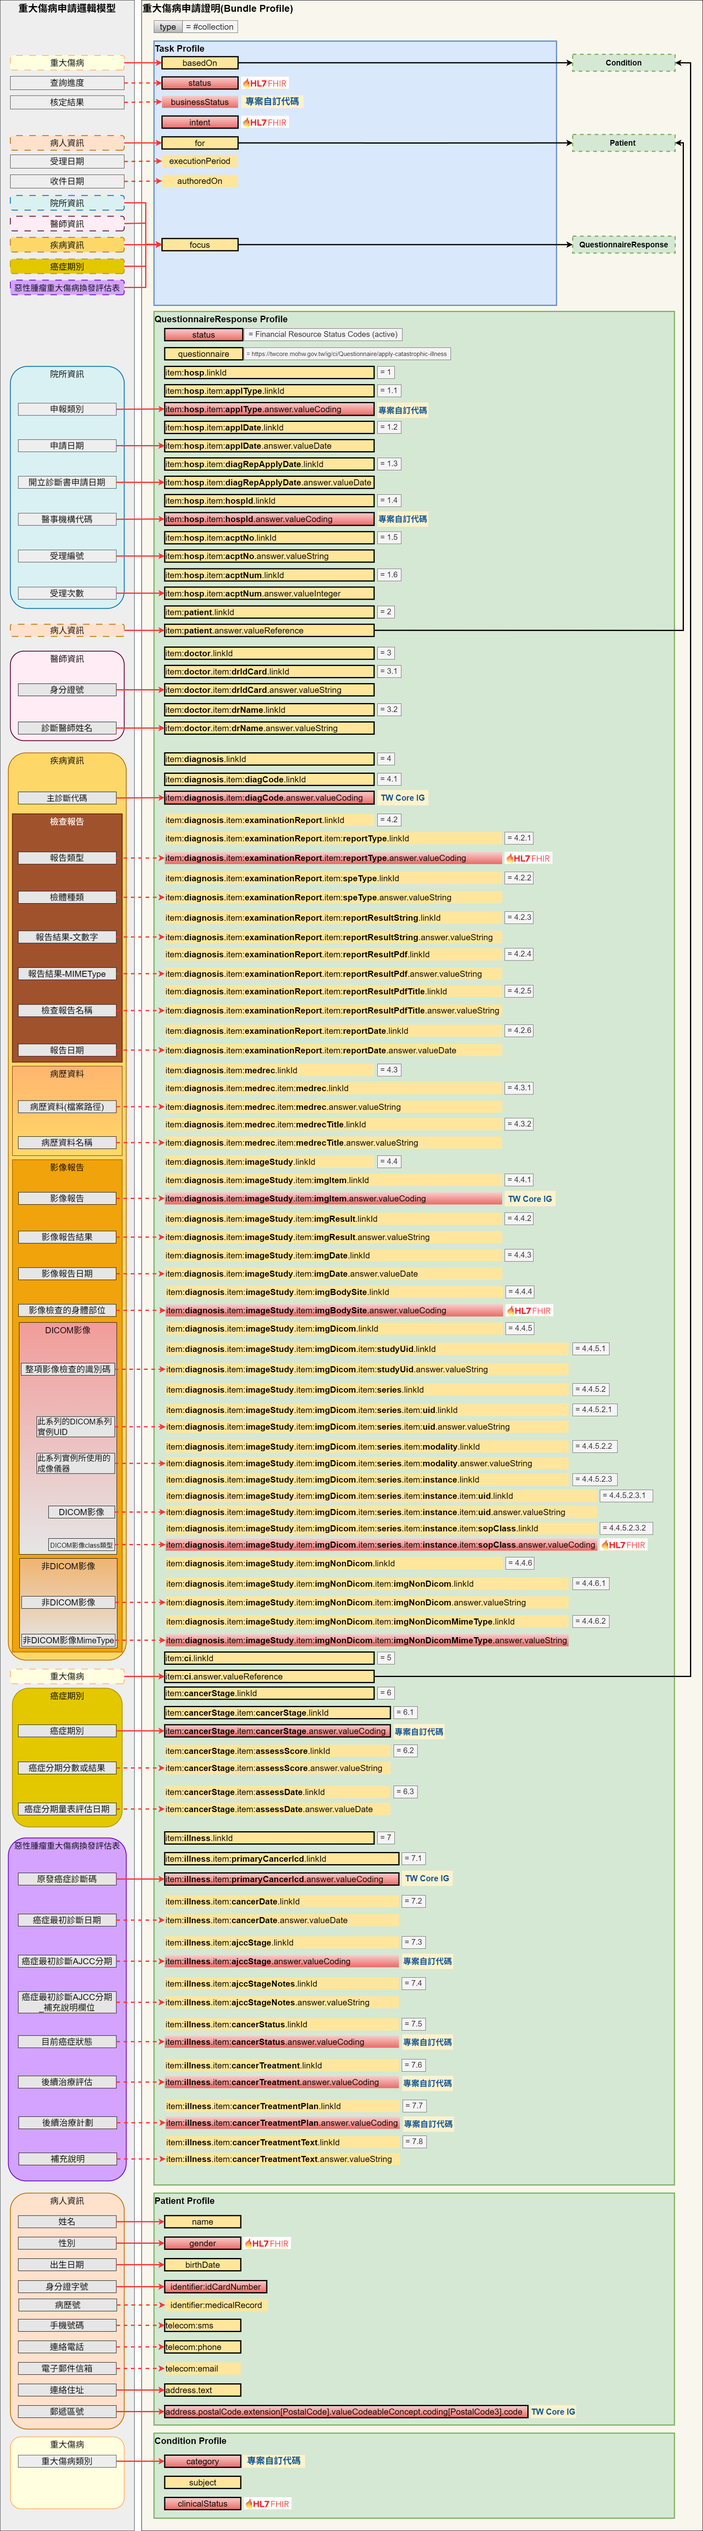
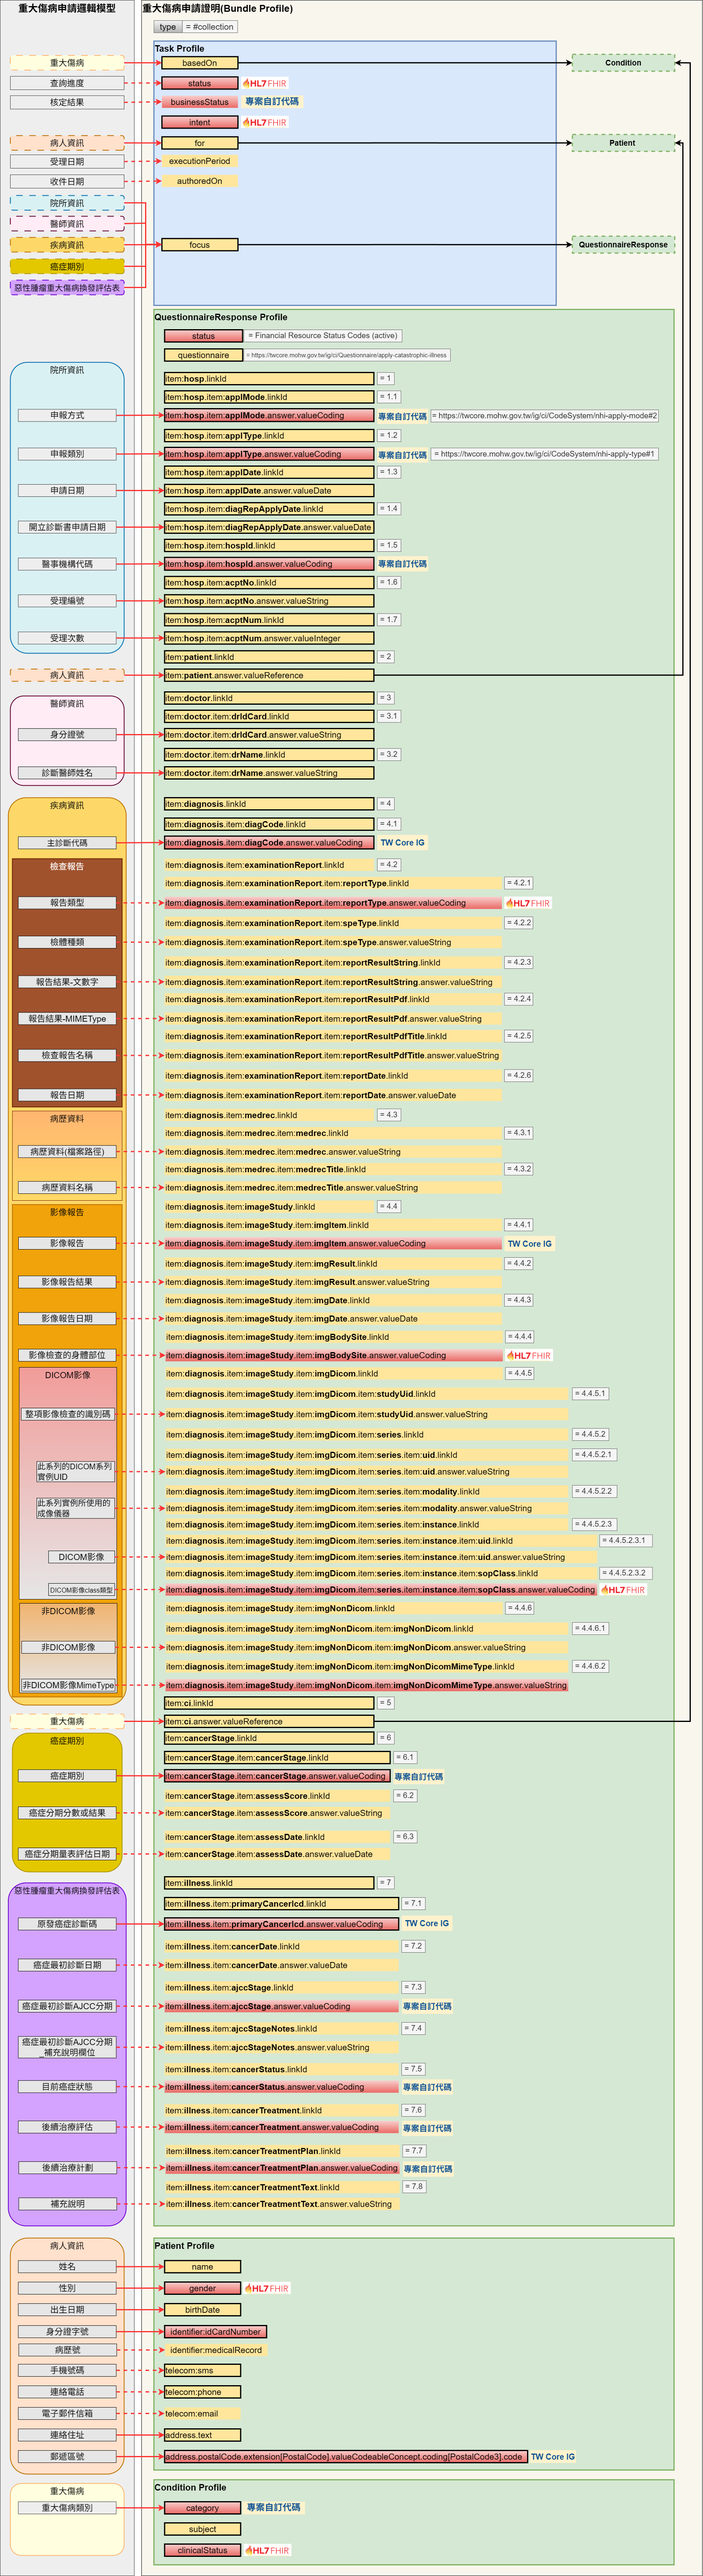
0521

diff --git a/input/pagecontent/validate.md b/input/pagecontent/validate.md
@@ -1,0 +1,87 @@
+<style>
+body{font-family: arial,"Microsoft JhengHei","微軟正黑體",sans-serif !important;}
+</style>
+
+本頁將說明如何驗證實作檔是否符合TWCI IG規範。
+
+### IG驗證公開資源參考
+- HL7總會線上驗證工具：[https://validator.fhir.org/](https://validator.fhir.org/){:target="_blank"} (需等本IG於衛生福利部註冊過後才能使用)
+
+
+### 使用國際HL7提供的公開免費驗證器validator_cli.jar檔，以命令提示字元測試驗證。
+
+若IG已註冊可直接跳至Step 3，但目前因尚未註冊，須從Step 1開始。
+
+#### Step 1：手動下載IG Package
+<div style="padding-left: 10px;">
+<p>於「<a href="downloads.html">結構定義與範例檔案下載</a>」頁下載<a href="package.tgz">整個 TWCI IG 的 Package</a>。</p>
+<img src="validate/1-1.png" alt="Downloading the Pacakge" style="display: block;margin-left: auto;margin-right: auto;width: 80%;margin-bottom: 15px;" class="figure-img img-responsive img-rounded center-block"/>
+<div class="bg-warning">
+<p><b>下載下來的package.tgz檔案，請先解壓縮成package資料夾檔案！<br/>
+  解壓縮第一次還是package.tar壓縮檔案，解壓縮第二次才是package資料夾。</b></p>
+
+<img src="validate/1-2.gif" alt="Unzip the Pacakge" style="display: block;margin-left: auto;margin-right: auto;width: 70%;" class="figure-img img-responsive img-rounded center-block"/>
+<br/>
+</div>
+<div style="clear:both;"></div>
+</div>
+
+#### Step 2：放置 IG Package檔案
+<div style="padding-left: 10px;"> 
+<p>Package Cache檔案路徑如下：</p>
+<li>Windows：c:\users\&lt;username&gt;\.fhir\packages</li>
+<li>Unix/Linux：/~/.fhir/packages</li>
+<p>在packages路徑下創建一個資料夾並命名為「tw.gov.mohw.nhi.ci#1.0.1」，將package.tgz解壓縮後的package資料夾放置於「tw.gov.mohw.nhi.ci#1.0.1」中。</p>
+<div class="bg-warning"><p><b>若是第一次執行，須自行新增「.fhir」資料夾及其項下的「packages」資料夾。</b></p></div>
+<img src="validate/2.png" alt="Put the Pacakge" style="display: block;margin-left: auto;margin-right: auto;width: 60%;" class="figure-img img-responsive img-rounded center-block"/>
+<div style="clear:both;"></div>
+</div>
+
+
+#### Step 3：下載validator_cli.jar檔
+<div style="padding-left: 10px;"> 
+<p>進入HL7驗證說明官網(<a href="https://confluence.hl7.org/display/FHIR/Using+the+FHIR+Validator#UsingtheFHIRValidator-Downloadingthevalidator">Confluence Pages of Health Level 7 (HL7) International</a>)後尋找「Downloading the validator」項目，下載「<a href="https://github.com/hapifhir/org.hl7.fhir.core/releases/latest/download/validator_cli.jar">validator_cli.jar</a>」檔。</p>
+<img src="validate/3.png" alt="download validator_cli.jar" style="display: block;margin-left: auto;margin-right: auto;width: 80%;" class="figure-img img-responsive img-rounded center-block"/>
+<div style="clear:both;"></div>
+</div>
+
+#### Step 4：使用您的實例JSON檔或下載範例JSON檔
+<div style="padding-left: 10px;"> 
+<p>如果您手邊已經有一個依據TWCI IG實作的JSON檔，您可以使用您的實例檔案，如果您尚未有這樣的檔案，可以下載如下圖所示的TWCI IG的「<a href="Bundle-bun-min.json">Bundle 重大傷病申請證明</a>」範例。如下圖所示，請於TWCI IG網站上，找到<a href="examples.html">範例</a>頁面中「Bundle」的「<a href="Bundle-bun-min.html">重大傷病申請證明</a>」，點選「JSON」頁籤中的「<a href="Bundle-bun-min.json">Download</a>」，若沒有自動下載，請在「Bundle-bun-min.json」頁中按右鍵，選擇「另存新檔...」。</p>
+<div class="bg-warning"><p style="color: firebrick;"><b>最終完整檔為Bundle，但實作中通常會先驗證Bundle.entry的各Resource，例如：Patient、Practitioner及Organization等，各Profile的範例亦可於<a href="examples.html">範例</a>頁面中下載。</b></p></div>
+<img src="validate/4-1.png" alt="download example json" style="display: block;margin-left: auto;margin-right: auto;width: 80%;" class="figure-img img-responsive img-rounded center-block"/>
+<div style="clear:both;"></div>
+<img src="validate/4-2.png" alt="download example json" style="display: block;margin-left: auto;margin-right: auto;width: 80%;" class="figure-img img-responsive img-rounded center-block"/>
+<div style="clear:both;"></div>
+<img src="validate/4-3.png" alt="download example json" style="display: block;margin-left: auto;margin-right: auto;width: 70%;" class="figure-img img-responsive img-rounded center-block"/>
+<div style="clear:both;"></div>
+</div>
+
+#### Step 5：放置validator_cli.jar檔與範例檔
+<div style="padding-left: 10px;"> 
+<p>請將Step 4下載之範例JSON檔(或您自己的實例JSON檔)及Step 3 validator_cli.jar檔，放置於「C:\」目錄中。</p>
+<div class="bg-warning"><p style="color: firebrick;"><b>這邊只是為了方便驗證時簡化語法及避免太複雜的說明，而將上述兩個檔案放在相同目錄，使用者/實作者可視情況放在不同的目錄，但後續驗證語法也要自行做相對應的調整。</b></p></div>
+<img src="validate/5.png" alt="put the files" style="display: block;margin-left: auto;margin-right: auto;width: 70%;" class="figure-img img-responsive img-rounded center-block"/>
+<div style="clear:both;"></div>
+</div>
+
+#### Step 6：驗證檔案是否符合Profiles格式
+<div style="padding-left: 10px;"> 
+<p>請開啟「命令提示字元」，將檔案路徑指向至「C:\」目錄。</p>
+<li>方式①：在C:\目錄的檔案路徑中直接輸入「cmd」並按Enter鍵。</li>
+<li>方式②：打開命令提示字元，輸入「cd C:/」將檔案路徑指向C:\目錄</li>
+<img src="validate/6-1.png" alt="cmd" style="display: block;margin-left: auto;margin-right: auto;width: 80%;" class="figure-img img-responsive center-block"/>
+<div class="bg-warning"><p style="color: firebrick;"><b>若執行失敗，請以系統管理員身分執行命令提示字元。</b></p></div>
+<p>請於「命令提示字元」依序輸入以下語法：<br/>
+　1. FHIR提供的驗證程式－<b style="color: red;">紅色①</b>『<code>java -jar validator_cli.jar</code>』<br/>
+　2. 要驗證的Profile實例(即JSON檔)－<b style="color: #4D82B8;">藍色②</b>『<code>Bundle-bun-min.json</code>』(即為您於Step5所放置於C:\的JSON檔案名稱)<br/>
+　3. 驗證的IG及其版本號－<b style="color: #E78E46;">橘色③</b>『<code>-ig tw.gov.mohw.nhi.ci#1.0.1</code>』，鍵入Enter，即可查看驗證結果<br />
+　<b style="color: red;">①</b>、<b style="color: #4D82B8;">②</b>、<b style="color: #E78E46;">③</b>之間需有空格，完整語法即：<code>java -jar validator_cli.jar Bundle-bun-min.json -ig tw.gov.mohw.nhi.ci#1.0.1</code></p>
+  <img src="validate/6-2.png" alt="validate" style="display: block;margin-left: auto;margin-right: auto;width: 80%;margin-bottom: 15px;" class="figure-img img-responsive img-rounded center-block"/>
+  <div style="clear:both;"></div>
+<p>若驗證「通過」，可看到「Success: 0 errors, 1 warnings, 5 notes」，原則上看到0 errors即代表通過驗證，warning及note可參考就好，不影響實作。後續的更版可能會解決其中幾個notes (即Information)。</p>
+<img src="validate/6-3.png" alt="validate success" style="display: block;margin-left: auto;margin-right: auto;width: 80%;margin-bottom: 15px;" class="figure-img img-responsive center-block"/>
+<p>若驗證「不通過」，可看到「*FAILURE*: ...」，可看出第69行的代碼為錯誤代碼。再依據錯誤訊息修改實例後重新驗證，直到驗證成功為止，即表示實例符合Profile定義。</p>
+<img src="validate/6-4.png" alt="validate failure" style="display: block;margin-left: auto;margin-right: auto;width: 80%;margin-bottom: 15px;" class="figure-img img-responsive center-block"/>
+<div style="clear:both;"></div>
+</div>

diff --git a/input/pagecontent/index.md b/input/pagecontent/index.md
@@ -3,13 +3,35 @@
 </div>
 
 <div class="bg-warning" style="ol { counter-reset: item } li { display: block } li:before { content: counters（item, ">
-因考量實作需求，於2025/5/13異動以下內容：
+因考量實作需求，於2025/5/21異動以下內容：
     <ol>  
         <li>修改<a href="CodeSystem-nhi-category.html">CodeSystem: NHI-健保重大傷病-重大傷病類別</a>：
             <ol>
                <li>原為單位數的代碼（<code>1</code>～<code>9</code>）調整為兩位數格式（<code>01</code>～<code>09</code>）。</li>
             </ol>
         </li>
+        <li>修改<a href="CodeSystem-nhi-apply-type.html">CodeSystem: NHI-健保重大傷病-申報類別</a>：為統一命名，原URL為<code>https://twcore.mohw.gov.tw/ig/ci/CodeSystem/nhi-<b>reporting-method</b></code>，修改為<code>https://twcore.mohw.gov.tw/ig/ci/CodeSystem/nhi-<b>apply-type</b></code>。</li>
+        <li>修改<a href="StructureDefinition-Questionnaire-twci.html">Profile: 重大傷病申請書-Questionnaire TWCI</a>：
+            <ol>
+               <li>新增欄位「(1.1)申報方式」，並調整「(1)院所資訊」中其他細項的序號(linkId)。</li>
+            </ol>
+        </li>
+        <li>修改<a href="StructureDefinition-QuestionnaireResponse-twci.html">Profile: 重大傷病申請書回覆-QuestionnaireResponse TWCI</a>：
+            <ol>
+               <li>新增欄位「(1.1)申報方式」，並調整「(1)院所資訊」中其他細項的序號(linkId)。</li>
+               <li><code>item[diagnosis].item[examinationReport].item[reportType].answer</code>基數原為「1..*」，改為「1..1」。</li>
+               <li><code>item[diagnosis].item[examinationReport].item[reportResultString].answer</code>基數原為「1..*」，改為「1..1」。</li>
+               <li><code>item[diagnosis].item[medrec].item[medrecTitle].answer</code>基數原為「1..*」，改為「1..1」。</li>
+               <li><code>item[diagnosis].item[imageStudy].item[imgResult].answer</code>基數原為「1..*」，改為「1..1」。</li>
+               <li><code>item[diagnosis].item[imageStudy].item[imgDicom].item[series].item[uid].answer</code>基數原為「1..*」，改為「1..1」。</li>
+               <li><code>item[diagnosis].item[imageStudy].item[imgDicom].item[series].item[instance].item[uid].answer</code>基數原為「1..*」，改為「1..1」。</li>
+               <li><code>item[diagnosis].item[imageStudy].item[imgDicom].item[series].item[instance].item[sopClass].answer</code>基數原為「1..*」，改為「1..1」。</li>
+               <li><code>item[diagnosis].item[imageStudy].item[imgNonDicom].item[imgNonDicom].answer</code>基數原為「1..*」，改為「1..1」。</li>
+               <li><code>item[diagnosis].item[imageStudy].item[imgNonDicom].item[imgNonDicomMimeType].answer</code>基數原為「1..*」，改為「1..1」。</li>
+               <li><code>item[illness].item[cancerTreatmentText].answer</code>基數原為「1..*」，改為「1..1」。</li>
+            </ol>
+        </li>
+        <li>修改<a href="StructureDefinition-Task-twci.html">Profile: 重大傷病申請-Task TWCI</a>：<code>status</code>設固定值為<code>requested</code>。</li>
 	</ol>
     請留意這些異動，以避免影響您的實作。
 </div>

diff --git a/input/pagecontent/vision.md b/input/pagecontent/vision.md
@@ -16,7 +16,7 @@
 ### 圖例說明圖
 
 <div  style="padding-left: 10px;"> 
-<img class="figure-img img-responsive img-rounded center-block" src="圖例說明.png" alt="圖例說明" style="display: block;margin-left: auto;margin-right: auto;width: 90%;"/>
+<img class="figure-img img-responsive img-rounded center-block" src="legend.png" alt="圖例說明" style="display: block;margin-left: auto;margin-right: auto;width: 90%;"/>
 </div>
 
 <br>
